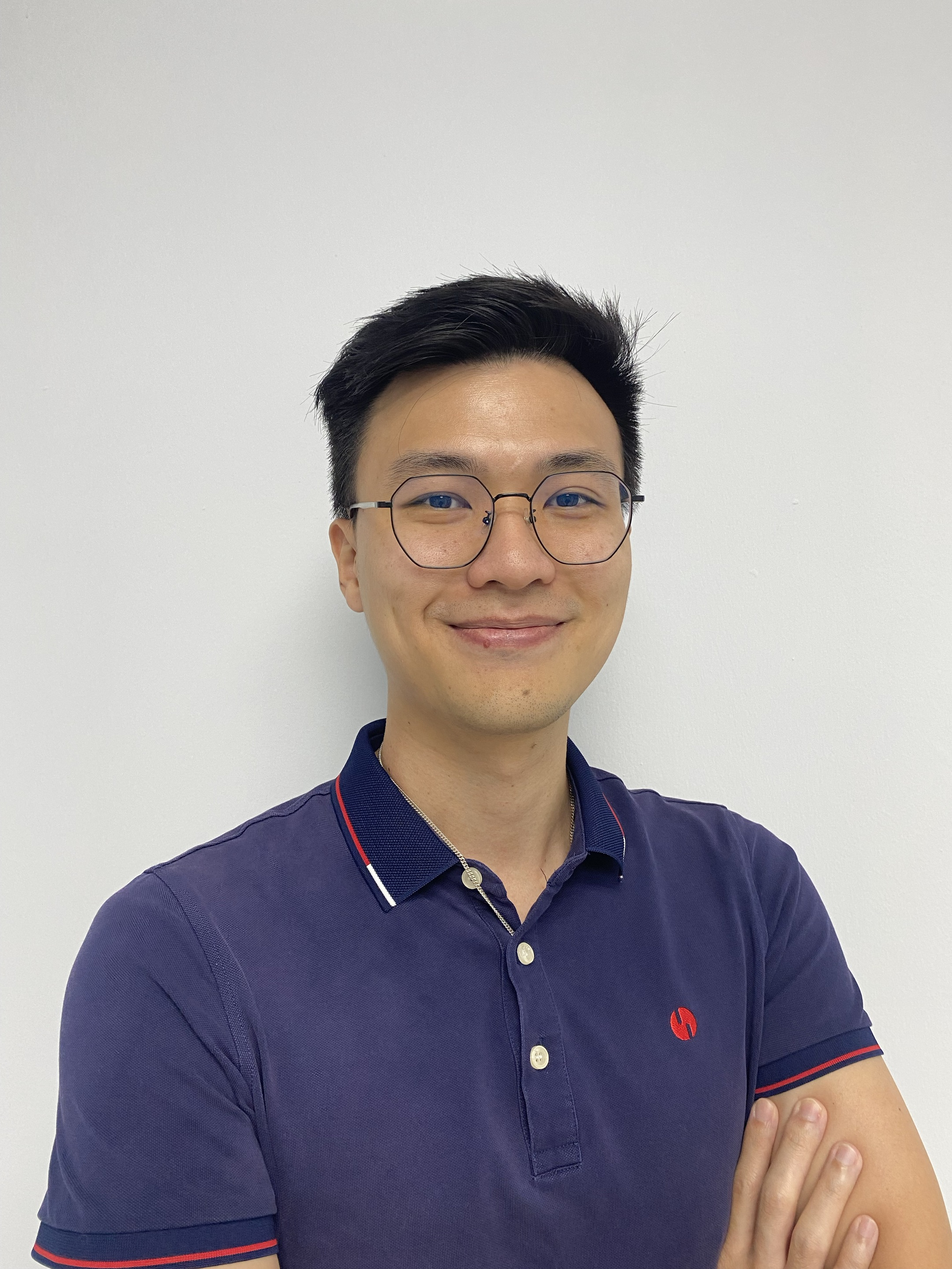
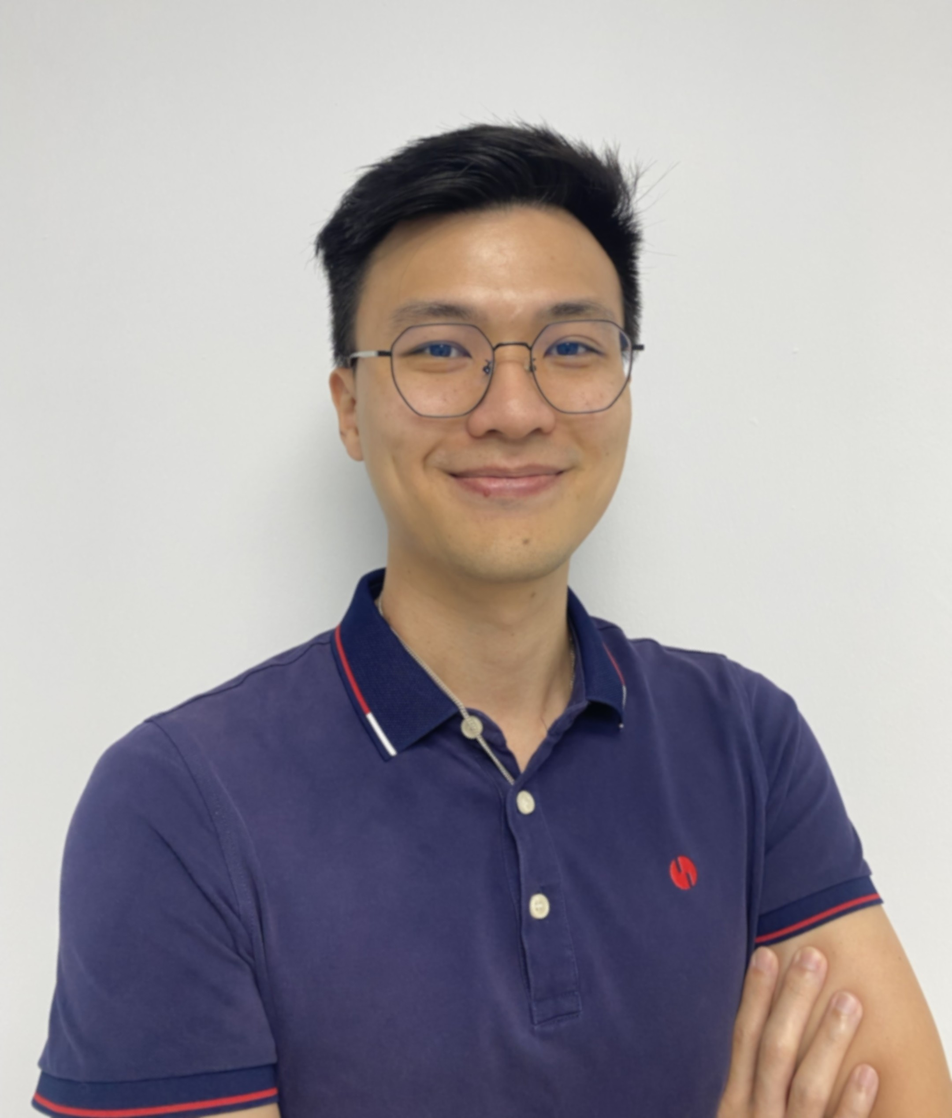
complete (commented Hear and Recognition)

diff --git a/src/components/Header/Header.tsx b/src/components/Header/Header.tsx
@@ -224,7 +224,7 @@ function Header() {
                 <>
                   <h3 className="expanded-title">Our People</h3>
                   <ul className="submenu-list">
-                    <li>
+                    {/* <li>
                       <Link
                         to="/recognition"
                         onClick={() => {
@@ -234,7 +234,7 @@ function Header() {
                       >
                         Employee Recognition
                       </Link>
-                    </li>
+                    </li> */}
                     <li>
                       <Link
                         to="/csr"
@@ -247,7 +247,7 @@ function Header() {
                       </Link>
                     </li>
 
-                    <li>
+                    {/* <li>
                       <Link
                         to="/hear"
                         onClick={() => {
@@ -257,7 +257,7 @@ function Header() {
                       >
                         Hear From Our Employees
                       </Link>
-                    </li>
+                    </li> */}
                     <li>
                       <Link
                         to="/career"
@@ -336,10 +336,9 @@ function Header() {
           )}
         </div>
         <div className="sidebar-footer">
-          <p>© 2025 Sofea</p>
+          <p>© 2025 HS Aerosystem</p>
           <p>
-            <Link to="/privacy">Privacy Policy</Link>
-          </p>
+All Rights Reserved          </p>
         </div>
       </aside>
     </>

diff --git a/src/data/teamData.ts b/src/data/teamData.ts
@@ -13,50 +13,50 @@ export const topLeader: TeamMember = {
   title: "General Manager",
   img: "/assets/Team/dryeow.jpg",
   bio: "[text]",
-  email: "[email]",
+  email: "yeow.jeeleong@hsaerosystem.com",
 };
 
 export const teamMembers: TeamMember[] = [
   {
     name: "Jonas See",
     title: "Finance Controller",
-    img: "/assets/Team/jonas2.jpg",
+    img: "/assets/Team/jonas.jpg",
     bio: "[text]",
-    email: "[email]",
+    email: "jonassee@hsaerosystem.com",
   },
   {
     name: "Annie Chia",
     title: "Head of Engineering",
     img: "/assets/Team/annie.jpg",
     bio: "[text]",
-    email: "[email]",
+    email: "annie.chia@hsaerosystem.com",
   },
   {
     name: "Stacy Gan",
     title: "Head of HR",
     img: "/assets/Team/stacy.jpg",
     bio: "[text]",
-    email: "[email]",
+    email: "stacy.gan@hsaerosystem.com",
   },
   {
     name: "Leslie Joseph",
     title: "Head of Manufacturing",
     img: "/assets/Team/leslie.jpg",
     bio: "[text]",
-    email: "[email]",
+    email: "leslie@hsaerosystem.com",
   },
   {
     name: "Zulfadhli Idrus",
     title: "Head of Operations",
-    img: "/assets/Team/default.jpg",
+    img: "/assets/Team/zulfadhli2.jpg",
     bio: "[text]",
-    email: "[email]",
+    email: "zulfadhli.idrus@hsaerosystem.com",
   },
   {
     name: "Grace Lee",
     title: "Head of Quality",
     img: "/assets/Team/grace.jpg",
     bio: "[text]",
-    email: "[email]",
+    email: "grace.lee@hsaerosystem.com",
   },
 ];

diff --git a/src/pages/Home.tsx b/src/pages/Home.tsx
@@ -20,7 +20,7 @@ const Home = () => {
 
     const form = e.currentTarget;
     const formData = new FormData(form);
-    formData.append("access_key", "239b6e19-cd81-411e-ae75-a870be8b6036");
+    formData.append("access_key", "7bd9726d-7189-4fe1-95f0-cb3814fb9dc1");
 
     const object = Object.fromEntries(formData);
     const json = JSON.stringify(object);
@@ -120,11 +120,11 @@ const Home = () => {
             <h2>Best Employee of the Month</h2>
             <div className="employee-content">
               <div className="employee-photo">
-                <img src="/assets/Team/default.jpg" />
+                <img src="/assets/Home/aimi2.jpg" />
               </div>
               <div className="employee-details">
-                <h4>Muhammad Annas bin Mohd Kamil</h4>
-                <p className="employee-role">Lead NC Programmer</p>
+                <h4>Aimi Hazwani binti Saijan</h4>
+                <p className="employee-role">Procurement Manager</p>
                 <p className="employee-quote">
                   <em>
                     “Every challenge is an opportunity to build something

diff --git a/src/components/Footer/Footer.tsx b/src/components/Footer/Footer.tsx
@@ -66,13 +66,13 @@ function Footer() {
             <h4>Our People</h4>
             <ul>
               <li>
-                <Link to="/recognition">Employee Recognition</Link>
+                {/* <Link to="/recognition">Employee Recognition</Link> */}
               </li>
               <li>
                 <Link to="/csr">Corporate Social Responsibility</Link>
               </li>
               <li>
-                <Link to="/hear">Hear From Our Employee</Link>
+                {/* <Link to="/hear">Hear From Our Employee</Link> */}
               </li>
             </ul>
           </div>
@@ -104,7 +104,8 @@ function Footer() {
       </div>
 
       <div className="footer-bottom">
-        <p>© 2025</p>
+        <p>© 2025 HS Aerosystem</p>
+        <p>All Rights Reserved</p>
       </div>
     </footer>
   );

diff --git a/index.html b/index.html
@@ -2,9 +2,9 @@
 <html lang="en">
   <head>
     <meta charset="UTF-8" />
-    <link rel="icon" type="image/svg+xml" href="/vite.svg" />
+    <link rel="icon" type="image/png" href="/hs-logo-small.png" />
     <meta name="viewport" content="width=device-width, initial-scale=1.0" />
-    <title>Vite + React + TS</title>
+    <title>HS Aerosystem</title>
   </head>
   <body>
     <div id="root"></div>

diff --git a/src/pages/Team.tsx b/src/pages/Team.tsx
@@ -72,9 +72,9 @@ function Team() {
             <h2>{selectedMember.name}</h2>
             <p>{selectedMember.title}</p>
 
-            {selectedMember.bio && (
+            {/* {selectedMember.bio && (
               <p className="modal-bio">{selectedMember.bio}</p>
-            )}
+            )} */}
 
             {selectedMember.email && (
               <p className="modal-contact">

diff --git a/src/pages/Team.css b/src/pages/Team.css
@@ -48,7 +48,6 @@
   padding-top: 100px;
 }
 
-
 .team-card {
   flex: 1 1 220px;
   max-width: 260px;
@@ -162,7 +161,6 @@
 
 /* Responsive */
 @media (max-width: 800px) {
-
   /* Section */
   .team-section {
     padding: 50px 20px;
@@ -239,5 +237,3 @@
     right: 12px;
   }
 }
-
-

diff --git a/src/data/journeyData.ts b/src/data/journeyData.ts
@@ -106,7 +106,7 @@ const journeyData: Milestone[] = [
     description:
       "Advanced accreditation process for aerospace special processes.",
     position: "right",
-    status: "planned",
+    status: "completed",
   },
   {
     date: "Sometime in 2025",
